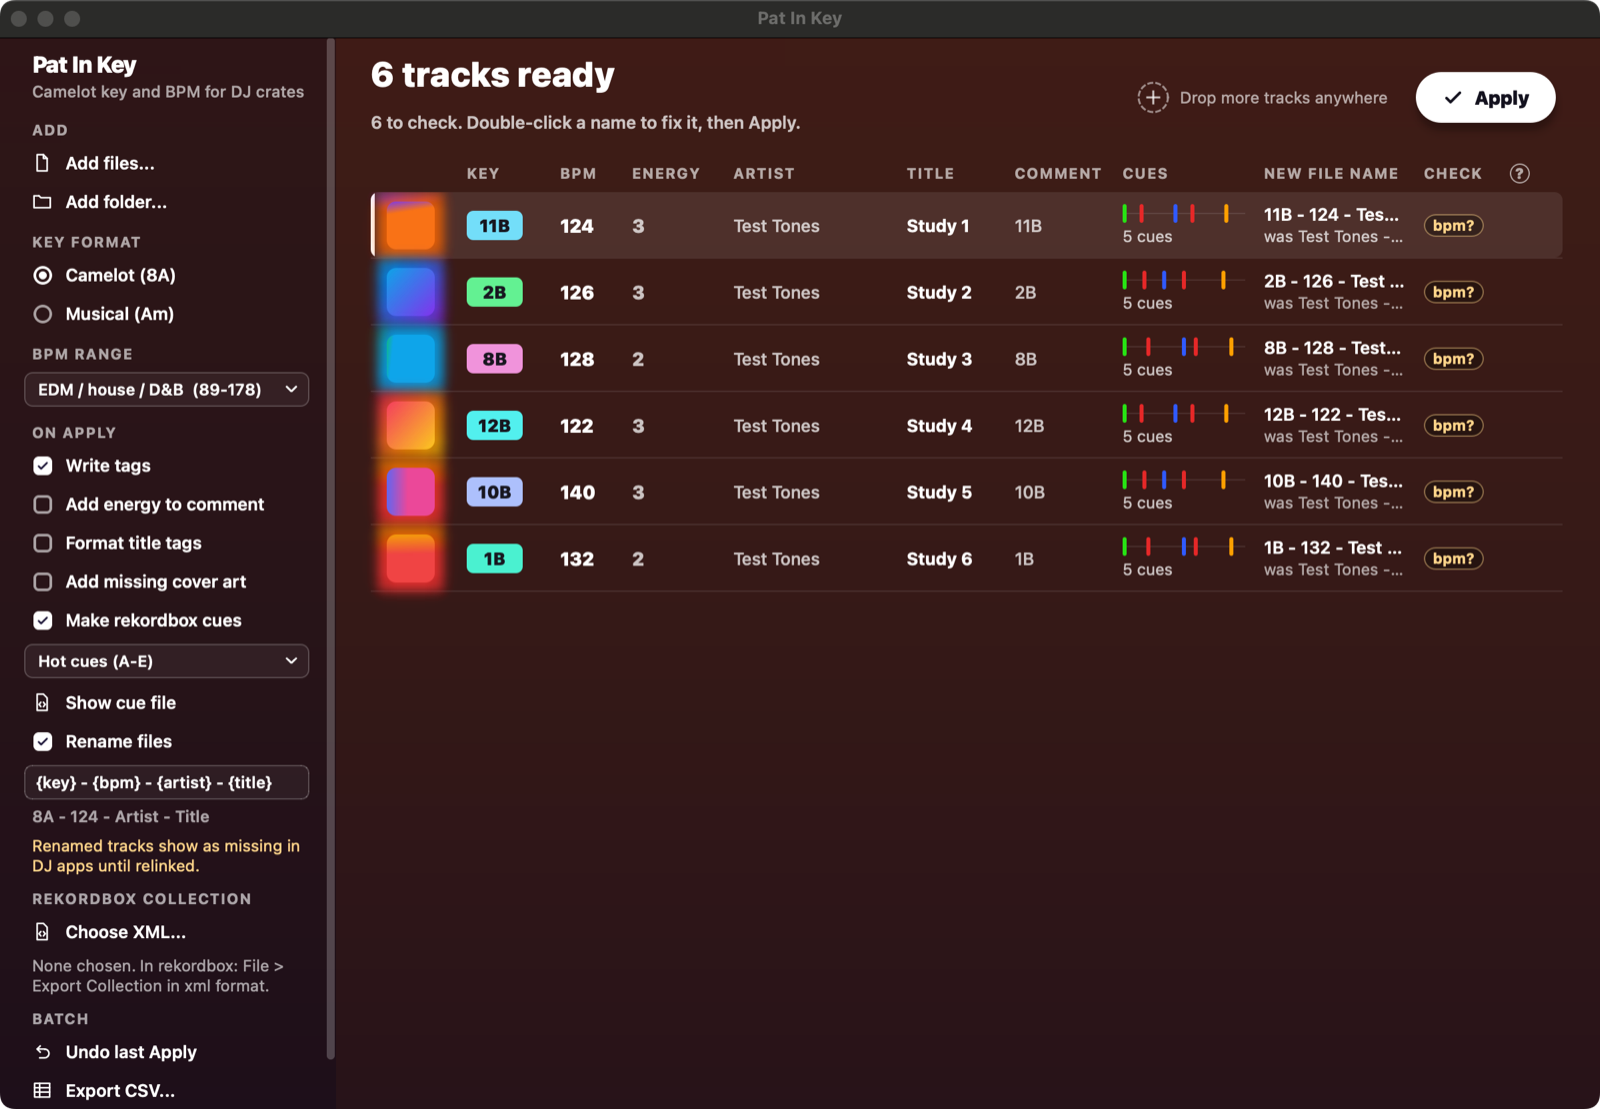
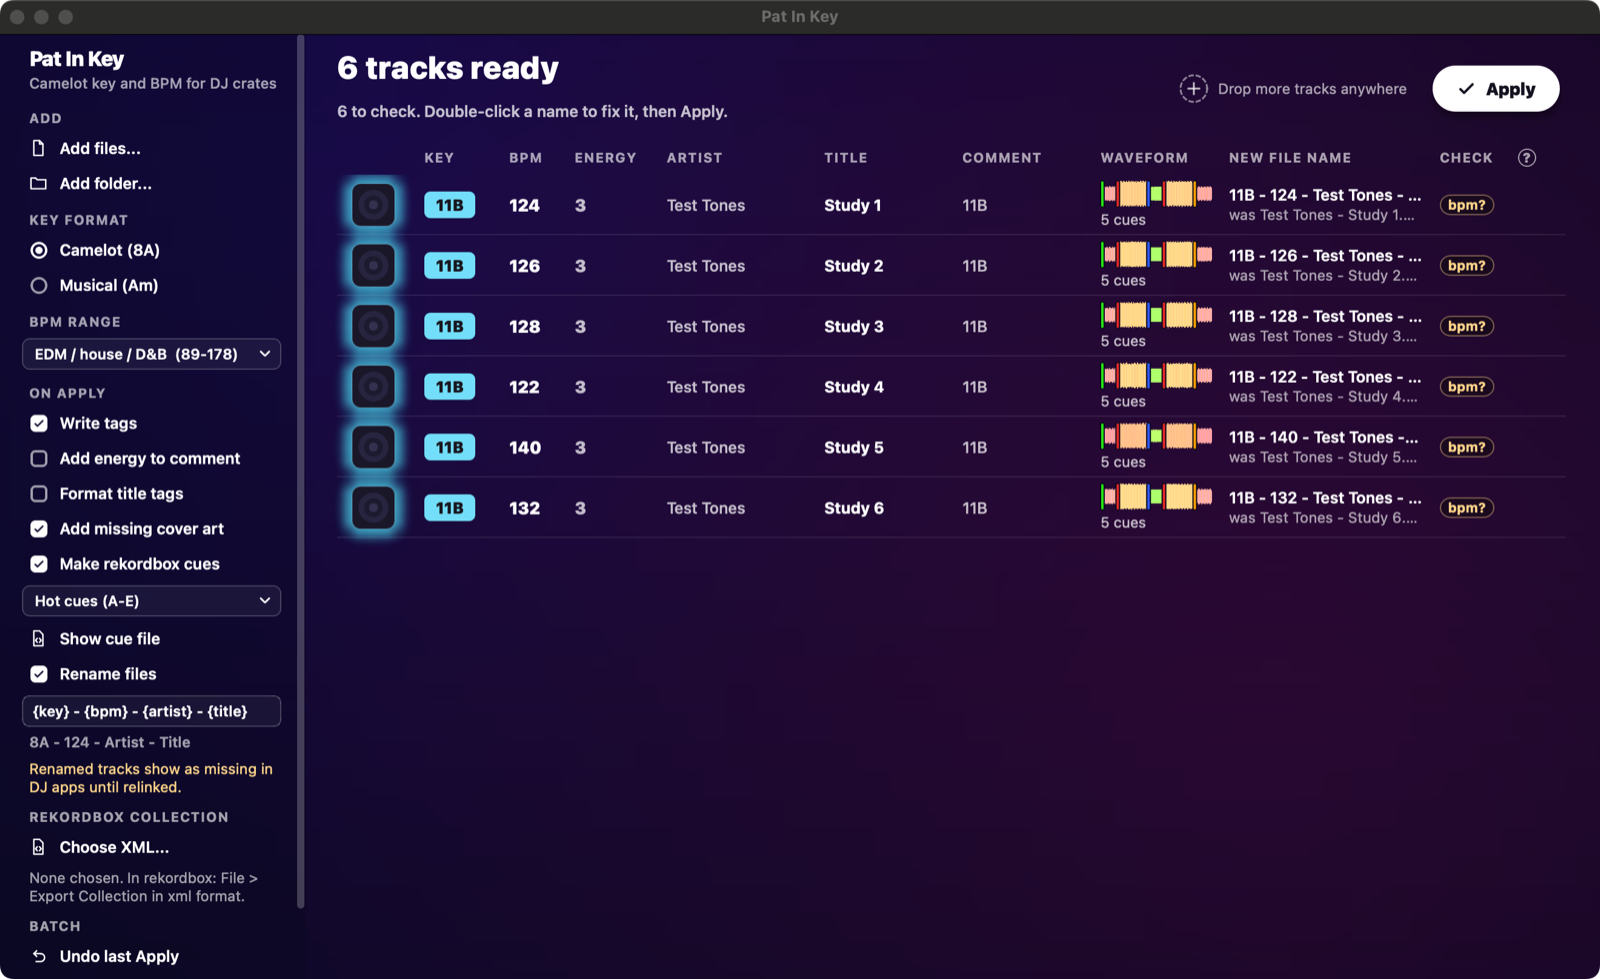
Install guide for 1.2.0, and the USB stick test kit

diff --git a/USB-TEST-KIT.md b/USB-TEST-KIT.md
@@ -1,0 +1,143 @@
+# USB stick test kit
+
+This is how to find out whether real DJ players are happy with a stick made by Pat In Key.
+No real player has read one yet, so the first test is the one that counts.
+
+It has two parts.
+[For the person making the sticks](#for-the-person-making-the-sticks) comes first.
+[The page to send](#the-page-to-send) is what a friend reads, and it can be copied as it is.
+
+## For the person making the sticks
+
+Friends never need Pat In Key.
+You make each stick and hand it over.
+
+### What you need
+
+- One spare USB stick per friend, 32 GB or smaller, formatted as FAT32 on a Master Boot Record.
+  Both players read that.
+  On a Mac, Disk Utility calls it MS-DOS (FAT) with Master Boot Record.
+- A build of Pat In Key.
+- From source, the export tool, once: `python usb_export.py --fetch-baken`.
+
+Use a spare stick.
+Pat In Key refuses a stick with a rekordbox library on it, and it never formats anything, so formatting the stick is up to you.
+
+### Make the six test tracks
+
+```bash
+python tests/make_test_tracks.py ~/Desktop/PatInKeyTest
+```
+
+This makes six tracks of about two minutes each, so nothing on the stick is copyrighted or personal.
+Each one has obvious changes where its cues should land, and its tempo is in its title.
+
+| Track | Format | What it checks |
+| --- | --- | --- |
+| 1 | MP3, 320 kbps | Baseline, and encoder delay |
+| 2 | MP3, variable bit rate | Seek accuracy |
+| 3 | WAV | Baseline with no delay |
+| 4 | AIFF | Baseline with no delay |
+| 5 | FLAC | Seeking without a seek table |
+| 6 | M4A (AAC), accented artist and title | Encoder delay, accented names |
+
+All are 44.1 kHz.
+
+### Write the stick
+
+1. Plug the stick in, and open Pat In Key.
+2. Drop the `PatInKeyTest` folder on the window and wait for the analysis to finish.
+
+   ![Pat In Key with the six test tracks](usb-test-kit/01-tracks.png)
+
+3. Press **Export to USB...** in the sidebar, and type `Pat In Key test` as the playlist name.
+4. Click your stick in the list.
+   Pat In Key never chooses one for you, even when only one is plugged in.
+
+   ![The export dialog with a stick chosen](usb-test-kit/02-export.png)
+
+5. Check the name and size, tick **Yes, write to** that stick, and press **Export**.
+6. Wait for it to finish, then eject the stick before you pull it out.
+
+If a stick is refused, the dialog says why, and nothing on the stick has changed.
+
+![A stick with a rekordbox library on it is refused](usb-test-kit/03-refused.png)
+
+The command line does the same:
+
+```bash
+python pat_in_key.py --list-usb
+python pat_in_key.py ~/Desktop/PatInKeyTest --export-usb /Volumes/STICK --playlist "Pat In Key test"
+```
+
+Do not check a stick by opening it in rekordbox.
+rekordbox rewrites a library it opens, which spoils the test.
+
+To see which build a stick came from, read `Pat In Key build.txt` at its root.
+
+### Before you send a stick
+
+Make sure the build has beat grids.
+Without them Pat In Key warns that tracks have no beat grid when the export ends, and steps 5 and 10 below cannot work.
+`Pat In Key build.txt` should also say `Phrases: 6`, or step 13 has nothing to show.
+On each test track the phrases run Intro, Chorus, Up, Chorus, Outro, changing where pads B to E land.
+
+### After a round
+
+A freeze, a blank field or a wrong position is a bug: file it with the photos and the build from `Pat In Key build.txt`, and send a new stick once it is fixed.
+A clean result is news for [baken](https://github.com/M-Igashi/baken) too, because nobody has reported an XDJ-RX3 there yet, so it is worth sharing with your friend's OK.
+
+Going back is simple, because nothing permanent happens.
+Your friend goes back to their usual stick, and the test stick can be erased.
+
+## The page to send
+
+**Pat In Key stick test (about 15 minutes)**
+
+Thanks for trying this.
+This stick was made without rekordbox, and we want to know if your player is happy with it.
+
+**What to install:** nothing.
+Everything is already on the stick.
+
+**Before you start**
+
+- Do this at a quiet moment, never during a party.
+- Use only this stick for the test.
+  Your usual stick is not involved.
+- Do not update your player's firmware for this.
+- Do not plug this stick into a computer with rekordbox open.
+  rekordbox can change it and spoil the test.
+
+**If anything goes wrong**
+
+Take a photo of the screen if you can.
+Pull the stick out.
+If the player is stuck, turn it off, wait 10 seconds and turn it back on.
+Then carry on with your usual stick.
+People testing similar sticks have needed nothing more than that.
+
+**What to do**
+
+| Step | Do this | Tell us | Photo |
+| --- | --- | --- | --- |
+| 1 | Turn the player on and plug in the stick | Any message or error code? If there is one, pull the stick and try once more | Yes, if a message appears |
+| 2 | Open the playlist called `Pat In Key test` | Six tracks, in order? | Yes |
+| 3 | Load track 1 | Do the title, artist, BPM, key and picture look right? | Yes |
+| 4 | Look at the waveform | In colour straight away, or plain first and colour a bit later? | Yes |
+| 5 | Press play and jump to the start, middle and end | Do the beat lines sit on the kick drums? | Yes, one of each |
+| 6 | Press pads A to E | Does each jump where the music changes? Do you see the names Intro, Drop, Break, Drop 2 and Outro? | Yes, the pad screen |
+| 7 | Do steps 3 to 6 on tracks 2 to 6 | Anything different from track 1? Track 3 has no picture, and that is fine | Only if something looks wrong |
+| 8 | On track 5, jump around and set a 4-beat loop | Any stutter, skip or wrong place? | No |
+| 9 | Search for the accented artist name on track 6 | Is it found? Does the name look right? | Yes |
+| 10 | If you have two decks, load two tracks and press BEAT SYNC | Do they stay together for a minute? | No |
+| 11 | Open Utility and find `VERSION No.` | Which version? | Yes, plus the player's model name |
+| 12 | Look for any vocal or phrase display on the waveform | Is there one? | Yes, if so |
+| 13 | On an XDJ-RX3 only: find `WAVEFORM DIVISIONS` in the player's settings, set it to `PHRASE`, and load track 1. Set it back afterwards | Do coloured phrase bands replace the time scale? Do they change where pads A to E jump? | Yes |
+
+**How to report back**
+
+Send your photos to the person who gave you the stick, with a short note saying yes or no for each step.
+Say anything that seemed odd, even if you are not sure it matters.
+Then keep the stick for the next round, or erase it.
+Nothing else on your player needs undoing.

diff --git a/README.md b/README.md
@@ -8,6 +8,7 @@ Drop a folder of music on the window, check the results, and press Apply.
 - **Key and BPM:** each track gets a Camelot key (8A) or a musical key (Am), a tempo, and an energy estimate from 1 to 10.
 - **Tags and names:** Apply writes the key, BPM, artist and title that rekordbox, Serato, Traktor and Mixxx read, and can rename files to `8A - 124 - Artist - Title.mp3`.
 - **Cue points:** it can make hot cues or memory cues for rekordbox.
+- **Track editor:** hear a track, and set its beat grid and cues by ear.
 - **Cover art:** tracks with no cover can get one looked up online.
 - **Undo:** **Undo last Apply** puts the old names and tags back.
 
@@ -109,10 +110,10 @@ Leave **KEY** unticked in rekordbox's **Preferences > Analysis** and in any Anal
 ### Cue points for rekordbox
 
 Tick **Make rekordbox cues** and choose **Hot cues** or **Memory cues**.
-The **Cues** column then shows where each cue will go.
+The **Waveform** column then shows each track's waveform with where each cue will go.
 Audio files are not changed for this: Apply writes the cues to a file for rekordbox to import.
 
-![The Cues column, showing five cues on each track's timeline](images/03-cues.png)
+![The Waveform column, showing five cues over each track's waveform](images/03-cues.png)
 
 If your tracks are already in rekordbox, export your collection first (**File > Export Collection in xml format**) and pick it with **Choose XML**.
 Pat In Key can then see the cues you set, and leaves those tracks alone.
@@ -172,3 +173,8 @@ Its licences and source code travel with the app: in the `licenses` and `source`
 
 The screenshots show generated test tones, on a Mac.
 The Windows window is the same, with its menu above the heading.
+
+## USB stick test kit
+
+Pat In Key 1.2.0 can write a USB stick that CDJ and XDJ players read, with no rekordbox needed.
+It is new, so use a spare stick, and follow the [USB stick test kit](USB-TEST-KIT.md) for making a stick and the page to send a friend who tries it on their player.
